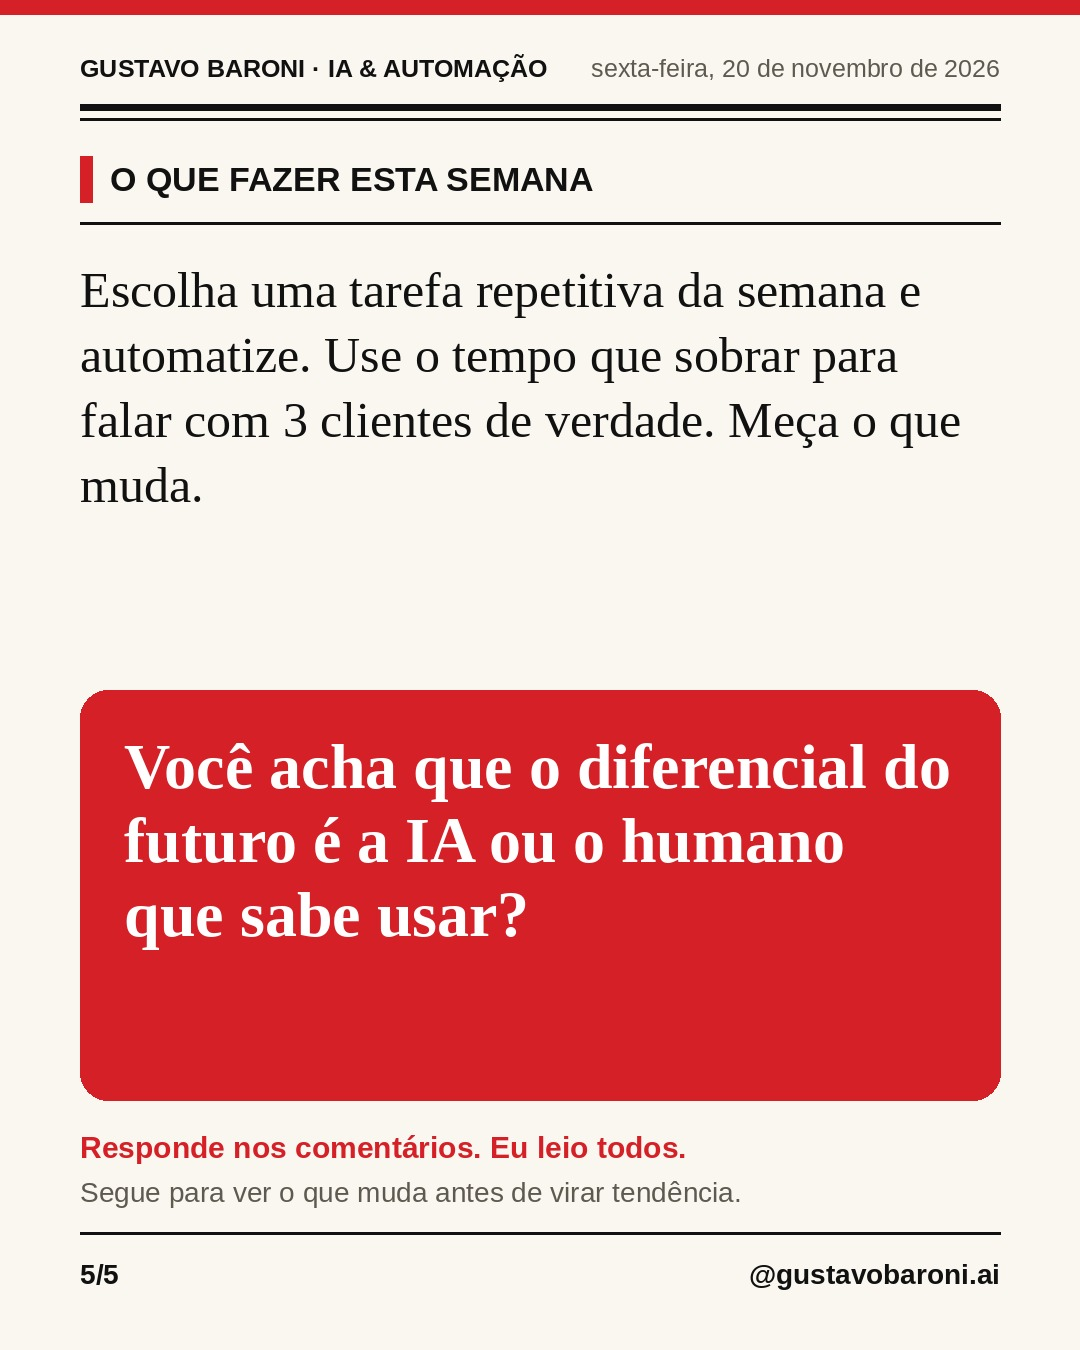
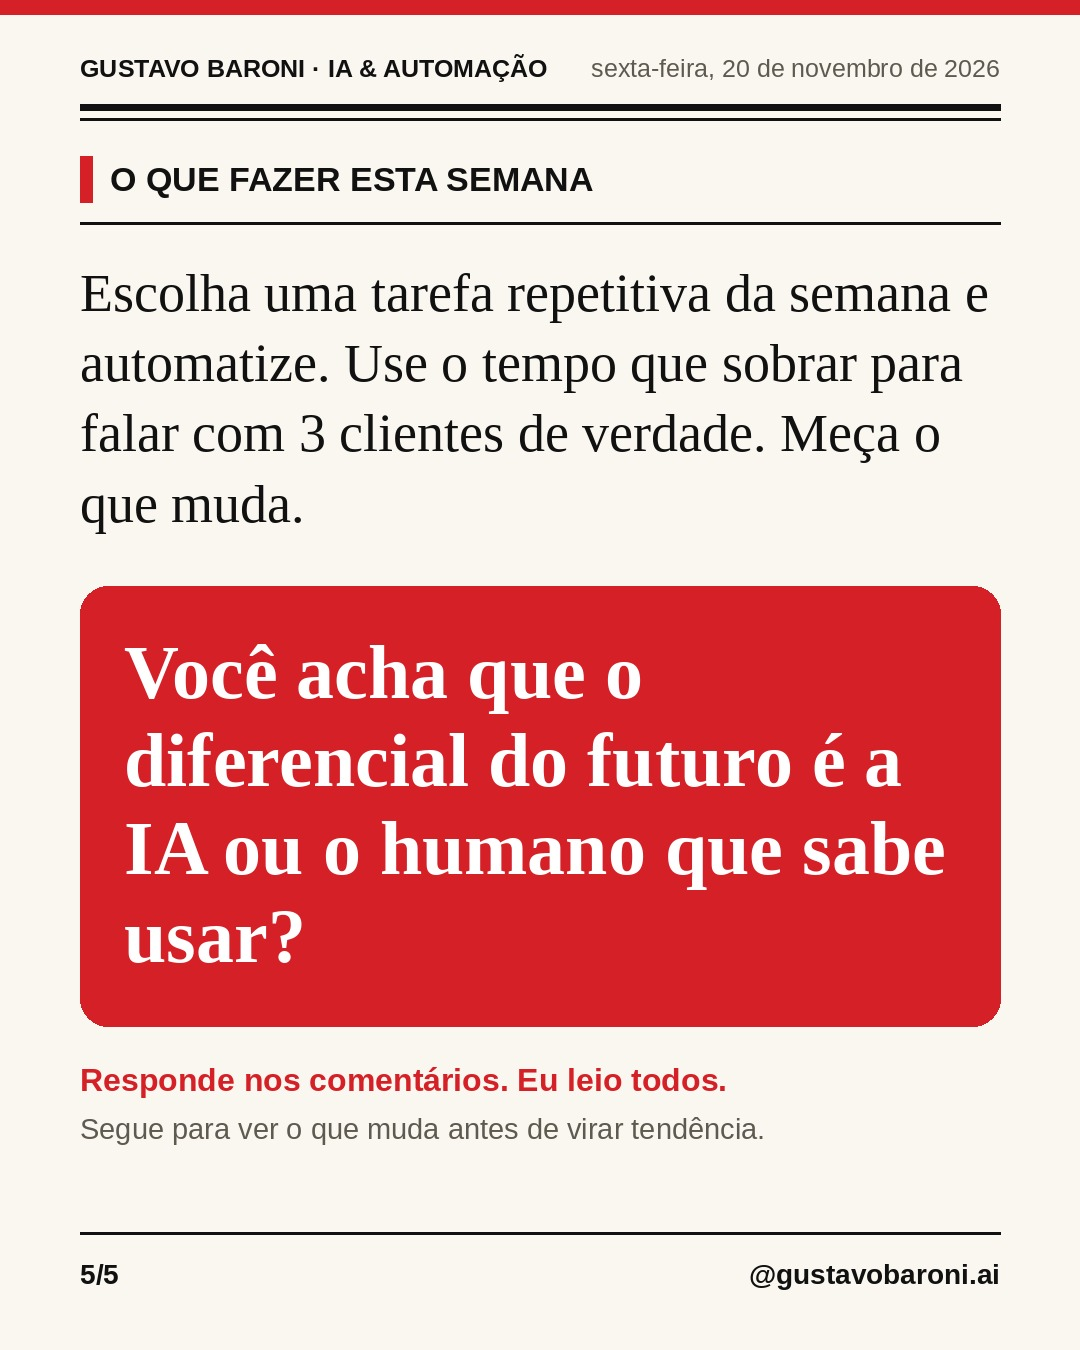
Noticias: alternar jornal claro e fundo diagramado escuro; caixa final ajustada ao texto
Claude-Session: https://claude.ai/code/session_01R6zbTiCMQBufG89yWEojgJ

Changed region(s): [[0.0611, 0.4356, 0.9472, 0.7156], [0.0611, 0.1867, 0.9167, 0.4044], [0.0611, 0.7467, 0.9472, 0.9022]]

diff --git a/noticias.py b/noticias.py
@@ -236,19 +236,67 @@ VERM, PRETO, BRANCO = (214, 32, 39), (14, 14, 14), (255, 255, 255)
 PAPEL = (250, 247, 240)
 
 
-def moldura(n, total, data_txt):
-    im = Image.new("RGB", (W, H), PAPEL)
+def arte_fundo(seed, forte=True):
+    """Fundo diagramado escuro (rede de nós, grade e brilho vermelho), sem depender de imagens externas."""
+    import random
+    from PIL import ImageFilter
+    rnd = random.Random(seed)
+    base = Image.new("RGB", (W, H), (9, 9, 13))
+    g = ImageDraw.Draw(base)
+    for y in range(H):
+        t = y / H
+        g.line((0, y, W, y), fill=(int(10 + 26 * t), int(10 + 4 * t), int(14 + 6 * t)))
+    brilho = Image.new("RGB", (W, H), (0, 0, 0))
+    bd = ImageDraw.Draw(brilho)
+    for _ in range(3):
+        cx, cy, r = rnd.randint(150, 930), rnd.randint(150, 1200), rnd.randint(260, 420)
+        bd.ellipse((cx - r, cy - r, cx + r, cy + r), fill=(150, 20, 28))
+    brilho = brilho.filter(ImageFilter.GaussianBlur(150))
+    base = Image.blend(base, Image.composite(brilho, base, brilho.convert("L")), 0.55)
+    ov = Image.new("RGBA", (W, H), (0, 0, 0, 0))
+    o = ImageDraw.Draw(ov)
+    for x in range(0, W, 90):
+        o.line((x, 0, x, H), fill=(255, 255, 255, 14))
+    for y in range(0, H, 90):
+        o.line((0, y, W, y), fill=(255, 255, 255, 14))
+    nos = [(rnd.randint(40, W - 40), rnd.randint(140, H - 140)) for _ in range(26 if forte else 16)]
+    for i, p1 in enumerate(nos):
+        for p2 in sorted(nos, key=lambda q: (q[0] - p1[0]) ** 2 + (q[1] - p1[1]) ** 2)[1:3]:
+            o.line((p1, p2), fill=(255, 255, 255, 46), width=2)
+    for (x, y) in nos:
+        r = rnd.choice([5, 7, 10])
+        cor = (232, 52, 58, 230) if rnd.random() < 0.3 else (255, 255, 255, 170)
+        o.ellipse((x - r, y - r, x + r, y + r), fill=cor)
+    base.paste(ov, (0, 0), ov)
+    pel = Image.new("RGBA", (W, H), (0, 0, 0, 95 if forte else 140))
+    base.paste(pel, (0, 0), pel)
+    return base
+
+
+def bloco(im, box, cor=(0, 0, 0), alpha=255, raio=28):
+    ov = Image.new("RGBA", im.size, (0, 0, 0, 0))
+    ImageDraw.Draw(ov).rounded_rectangle(box, radius=raio, fill=cor + (alpha,))
+    im.paste(ov, (0, 0), ov)
+
+
+def moldura(n, total, data_txt, escuro=False, seed=0):
+    if escuro:
+        im = arte_fundo(seed, forte=(n == 1))
+        fg, mut = BRANCO, (200, 200, 205)
+    else:
+        im = Image.new("RGB", (W, H), PAPEL)
+        fg, mut = TINTA, CINZA
     d = ImageDraw.Draw(im)
     d.rectangle((0, 0, W, 14), fill=VERM)
-    d.text((M, 54), "GUSTAVO BARONI · IA & AUTOMAÇÃO", font=f(SANS_B, 25), fill=TINTA)
+    d.text((M, 54), "GUSTAVO BARONI · IA & AUTOMAÇÃO", font=f(SANS_B, 25), fill=fg)
     tw = d.textlength(data_txt, font=f(SANS, 25))
-    d.text((W - M - tw, 54), data_txt, font=f(SANS, 25), fill=CINZA)
-    d.rectangle((M, 104, W - M, 110), fill=TINTA)
-    d.rectangle((M, 118, W - M, 120), fill=TINTA)
-    d.rectangle((M, H - 118, W - M, H - 116), fill=TINTA)
-    d.text((M, H - 92), f"{n}/{total}", font=f(SANS_B, 28), fill=TINTA)
+    d.text((W - M - tw, 54), data_txt, font=f(SANS, 25), fill=mut)
+    d.rectangle((M, 104, W - M, 110), fill=fg)
+    d.rectangle((M, 118, W - M, 120), fill=fg)
+    d.rectangle((M, H - 118, W - M, H - 116), fill=fg)
+    d.text((M, H - 92), f"{n}/{total}", font=f(SANS_B, 28), fill=fg)
     tw = d.textlength(HANDLE, font=f(SANS_B, 28))
-    d.text((W - M - tw, H - 92), HANDLE, font=f(SANS_B, 28), fill=TINTA)
+    d.text((W - M - tw, H - 92), HANDLE, font=f(SANS_B, 28), fill=fg)
     return im, d
 
 
@@ -260,14 +308,17 @@ def faixa(d, txt, y, cor=VERM, tcor=BRANCO, x=M):
     return x + w
 
 
-def rotulo(d, txt, y=156):
+def rotulo(d, txt, y=156, fg=TINTA):
     d.rectangle((M, y, M + 12, y + 46), fill=VERM)
-    d.text((M + 30, y + 4), txt, font=f(SANS_B, 34), fill=TINTA)
-    d.rectangle((M, y + 66, W - M, y + 68), fill=TINTA)
+    d.text((M + 30, y + 4), txt, font=f(SANS_B, 34), fill=fg)
+    d.rectangle((M, y + 66, W - M, y + 68), fill=fg)
 
 
-def painel_numero(im, d, y, h, numero, legenda):
-    d.rounded_rectangle((M, y, W - M, y + h), radius=28, fill=PRETO)
+def painel_numero(im, d, y, h, numero, legenda, escuro=False):
+    if escuro:
+        bloco(im, (M, y, W - M, y + h), (0, 0, 0), 190)
+    else:
+        d.rounded_rectangle((M, y, W - M, y + h), radius=28, fill=PRETO)
     d.rectangle((M, y + 36, M + 14, y + h - 36), fill=VERM)
     fnt = None
     for tam in range(min(190, int(h * 0.52)), 60, -6):
@@ -278,67 +329,90 @@ def painel_numero(im, d, y, h, numero, legenda):
     caixa(d, legenda, SANS_B, M + 52, y + 24 + fnt.size * 1.2, W - 2 * M - 100, h - fnt.size * 1.2 - 40, 32, 22, esp=1.2, cor=(235, 235, 235))
 
 
-def renderizar(p, pasta, prefixo, data_txt):
+def altura_texto(d, texto, path, maxw, ini, minimo, maxh, esp):
+    for tam in range(ini, minimo - 1, -2):
+        linhas = quebrar(d, texto, f(path, tam), maxw)
+        if len(linhas) * tam * esp <= maxh or tam <= minimo:
+            break
+    return tam, len(linhas) * tam * esp
+
+
+def renderizar(p, pasta, prefixo, data_txt, escuro=False):
     nomes, total = [], 5
     numeros = p.get("numeros") or []
+    seed = sum(ord(c) for c in p["manchete"])
+    fg = BRANCO if escuro else TINTA
+    mut = (200, 200, 205) if escuro else CINZA
     # 1 capa
-    im, d = moldura(1, total, data_txt)
+    im, d = moldura(1, total, data_txt, escuro, seed)
     faixa(d, "● ÚLTIMA HORA", 156)
-    y = caixa(d, p["manchete"], SERIF_B, M, 252, W - 2 * M, 520, 100, 58, esp=1.08)
+    y = caixa(d, p["manchete"], SERIF_B, M, 252, W - 2 * M, 520, 100, 58, esp=1.08, cor=fg)
     d.rectangle((M, y + 14, M + 170, y + 22), fill=VERM)
     py = max(y + 52, 800)
     if numeros:
-        painel_numero(im, d, py, 1130 - py, numeros[0]["n"], numeros[0]["r"])
+        painel_numero(im, d, py, 1130 - py, numeros[0]["n"], numeros[0]["r"], escuro)
     else:
-        d.rounded_rectangle((M, py, W - M, 1130), radius=28, fill=PRETO)
+        if escuro:
+            bloco(im, (M, py, W - M, 1130), (0, 0, 0), 190)
+        else:
+            d.rounded_rectangle((M, py, W - M, 1130), radius=28, fill=PRETO)
         d.rectangle((M, py + 36, M + 14, 1130 - 36), fill=VERM)
         av = avatar(140)
         im.paste(av, (M + 52, py + 36), av)
         d.text((M + 222, py + 52), "Minha análise", font=f(SANS_B, 40), fill=BRANCO)
         d.text((M + 222, py + 106), "Gustavo Baroni · deslize para ler", font=f(SANS, 30), fill=(210, 210, 210))
         caixa(d, p["subtitulo"], SERIF_I, M + 52, py + 200, W - 2 * M - 100, 1130 - py - 230, 36, 26, esp=1.22, cor=(235, 235, 235))
-    d.text((M, H - 190), f"Fonte: {p['fonte']}", font=f(SANS, 28), fill=CINZA)
+    d.text((M, H - 190), f"Fonte: {p['fonte']}", font=f(SANS, 28), fill=mut)
     tw = d.textlength("deslize →", font=f(SANS_B, 32))
-    d.text((W - M - tw, H - 192), "deslize →", font=f(SANS_B, 32), fill=VERM)
+    d.text((W - M - tw, H - 192), "deslize →", font=f(SANS_B, 32), fill=(240, 70, 76) if escuro else VERM)
     im.save(os.path.join(pasta, f"{prefixo}_s1.jpg"), quality=92); nomes.append(f"{prefixo}_s1.jpg")
     # 2 o que aconteceu (+ números)
-    im, d = moldura(2, total, data_txt)
-    rotulo(d, "O QUE ACONTECEU")
+    im, d = moldura(2, total, data_txt, escuro, seed + 1)
+    rotulo(d, "O QUE ACONTECEU", fg=fg)
     ty = 262
     if len(numeros) > 1:
         for k, nm in enumerate(numeros[1:3]):
-            painel_numero(im, d, 262 + k * 270, 240, nm["n"], nm["r"])
+            painel_numero(im, d, 262 + k * 270, 240, nm["n"], nm["r"], escuro)
         ty = 262 + len(numeros[1:3]) * 270 + 10
-        caixa(d, p["contexto"], SERIF, M, ty, W - 2 * M, H - 140 - ty, 44, 30, esp=1.28)
+        caixa(d, p["contexto"], SERIF, M, ty, W - 2 * M, H - 140 - ty, 44, 30, esp=1.28, cor=fg)
     else:
-        caixa(d, p["contexto"], SERIF, M, ty, W - 2 * M, H - 160 - ty, 58, 36, esp=1.32)
+        caixa(d, p["contexto"], SERIF, M, ty, W - 2 * M, H - 160 - ty, 58, 36, esp=1.32, cor=fg)
     im.save(os.path.join(pasta, f"{prefixo}_s2.jpg"), quality=92); nomes.append(f"{prefixo}_s2.jpg")
     # 3 por que importa (bloco destacado)
-    im, d = moldura(3, total, data_txt)
-    rotulo(d, "POR QUE IMPORTA")
-    d.rounded_rectangle((M, 262, W - M, H - 170), radius=28, fill=PRETO)
+    im, d = moldura(3, total, data_txt, escuro, seed + 2)
+    rotulo(d, "POR QUE IMPORTA", fg=fg)
+    if escuro:
+        bloco(im, (M, 262, W - M, H - 170), (0, 0, 0), 175)
+        d.rectangle((M, 300, M + 12, H - 208), fill=VERM)
+    else:
+        d.rounded_rectangle((M, 262, W - M, H - 170), radius=28, fill=PRETO)
     d.text((M + 44, 280), "\u201c", font=f(SERIF_B, 220), fill=VERM)
     caixa(d, p["importa"], SERIF_B, M + 52, 470, W - 2 * M - 104, H - 170 - 470 - 40, 64, 34, esp=1.28, cor=BRANCO)
     im.save(os.path.join(pasta, f"{prefixo}_s3.jpg"), quality=92); nomes.append(f"{prefixo}_s3.jpg")
-    # 4 minha leitura (foto grande)
-    im, d = moldura(4, total, data_txt)
-    rotulo(d, "MINHA LEITURA")
+    # 4 minha leitura
+    im, d = moldura(4, total, data_txt, escuro, seed + 3)
+    rotulo(d, "MINHA LEITURA", fg=fg)
     av = avatar(190)
     im.paste(av, (M, 262), av)
     d.ellipse((M - 6, 256, M + 196, 458), outline=VERM, width=6)
-    d.text((M + 230, 300), "Gustavo Baroni", font=f(SANS_B, 46), fill=TINTA)
-    d.text((M + 230, 360), HANDLE, font=f(SANS, 30), fill=CINZA)
+    d.text((M + 230, 300), "Gustavo Baroni", font=f(SANS_B, 46), fill=fg)
+    d.text((M + 230, 360), HANDLE, font=f(SANS, 30), fill=mut)
     faixa(d, "ANÁLISE", 408 - 12, x=M + 230)
-    caixa(d, p["leitura"], SERIF, M, 500, W - 2 * M, H - 160 - 500, 52, 34, esp=1.3)
+    caixa(d, p["leitura"], SERIF, M, 500, W - 2 * M, H - 160 - 500, 52, 34, esp=1.3, cor=fg)
     im.save(os.path.join(pasta, f"{prefixo}_s4.jpg"), quality=92); nomes.append(f"{prefixo}_s4.jpg")
-    # 5 ação + pergunta
-    im, d = moldura(5, total, data_txt)
-    rotulo(d, "O QUE FAZER ESTA SEMANA")
-    caixa(d, p["acao"], SERIF, M, 262, W - 2 * M, 400, 50, 34, esp=1.3)
-    d.rounded_rectangle((M, 690, W - M, 1100), radius=28, fill=VERM)
-    caixa(d, p["pergunta"], SERIF_B, M + 44, 730, W - 2 * M - 88, 330, 64, 38, esp=1.16, cor=BRANCO)
-    d.text((M, 1130), "Responde nos comentários. Eu leio todos.", font=f(SANS_B, 30), fill=VERM)
-    d.text((M, 1176), "Segue para ver o que muda antes de virar tendência.", font=f(SANS, 28), fill=CINZA)
+    # 5 ação + pergunta (caixa vermelha ajustada ao texto, sem espaço vazio)
+    im, d = moldura(5, total, data_txt, escuro, seed + 4)
+    rotulo(d, "O QUE FAZER ESTA SEMANA", fg=fg)
+    y = caixa(d, p["acao"], SERIF, M, 262, W - 2 * M, 430, 54, 34, esp=1.3, cor=fg)
+    larg = W - 2 * M - 88
+    tam, alt = altura_texto(d, p["pergunta"], SERIF_B, larg, 76, 40, 380, 1.16)
+    by = int(y + 44)
+    bh = int(alt + 88)
+    d.rounded_rectangle((M, by, W - M, by + bh), radius=28, fill=VERM)
+    caixa(d, p["pergunta"], SERIF_B, M + 44, by + 44, larg, alt + 4, tam, tam, esp=1.16, cor=BRANCO)
+    cy = by + bh + 36
+    d.text((M, cy), "Responde nos comentários. Eu leio todos.", font=f(SANS_B, 32), fill=(240, 70, 76) if escuro else VERM)
+    d.text((M, cy + 50), "Segue para ver o que muda antes de virar tendência.", font=f(SANS, 29), fill=mut)
     im.save(os.path.join(pasta, f"{prefixo}_s5.jpg"), quality=92); nomes.append(f"{prefixo}_s5.jpg")
     return nomes
 
@@ -352,7 +426,7 @@ def enfileirar(posts):
     for p in posts:
         num = len(fila) + 1
         prefixo = f"n{agora.strftime('%Y%m%d')}_{num:03d}"
-        slides = renderizar(p, "imagens", prefixo, data_txt)
+        slides = renderizar(p, "imagens", prefixo, data_txt, escuro=(num % 2 == 0))
         legenda = p["legenda"].strip() + f"\n\nFonte: {p['fonte']}\n\n{HANDLE}"
         fila.append({"noticia": num, "tipo": "noticia", "data": agora.date().isoformat(), "slides": slides, "legenda": legenda, "url": p.get("url", "")})
         usadas.append({"titulo": p["manchete"], "url": p.get("url", "")})
